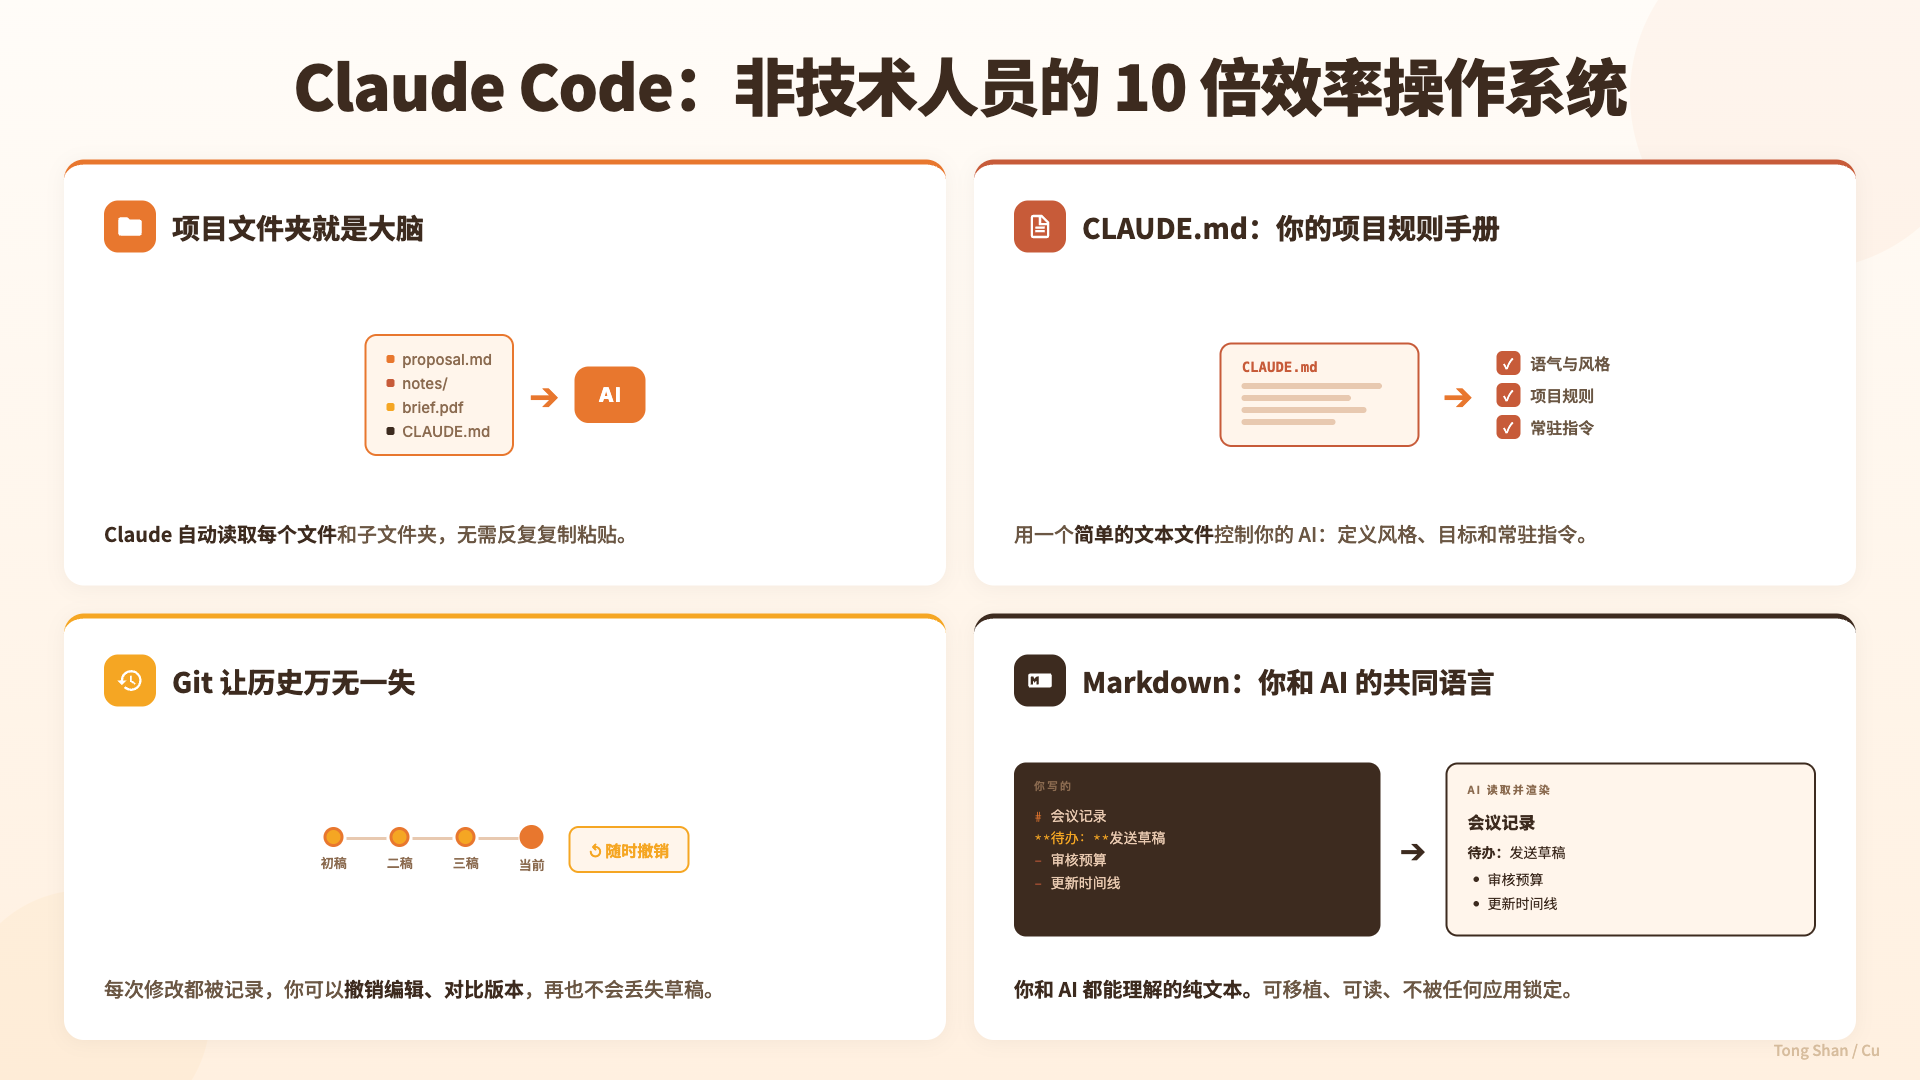
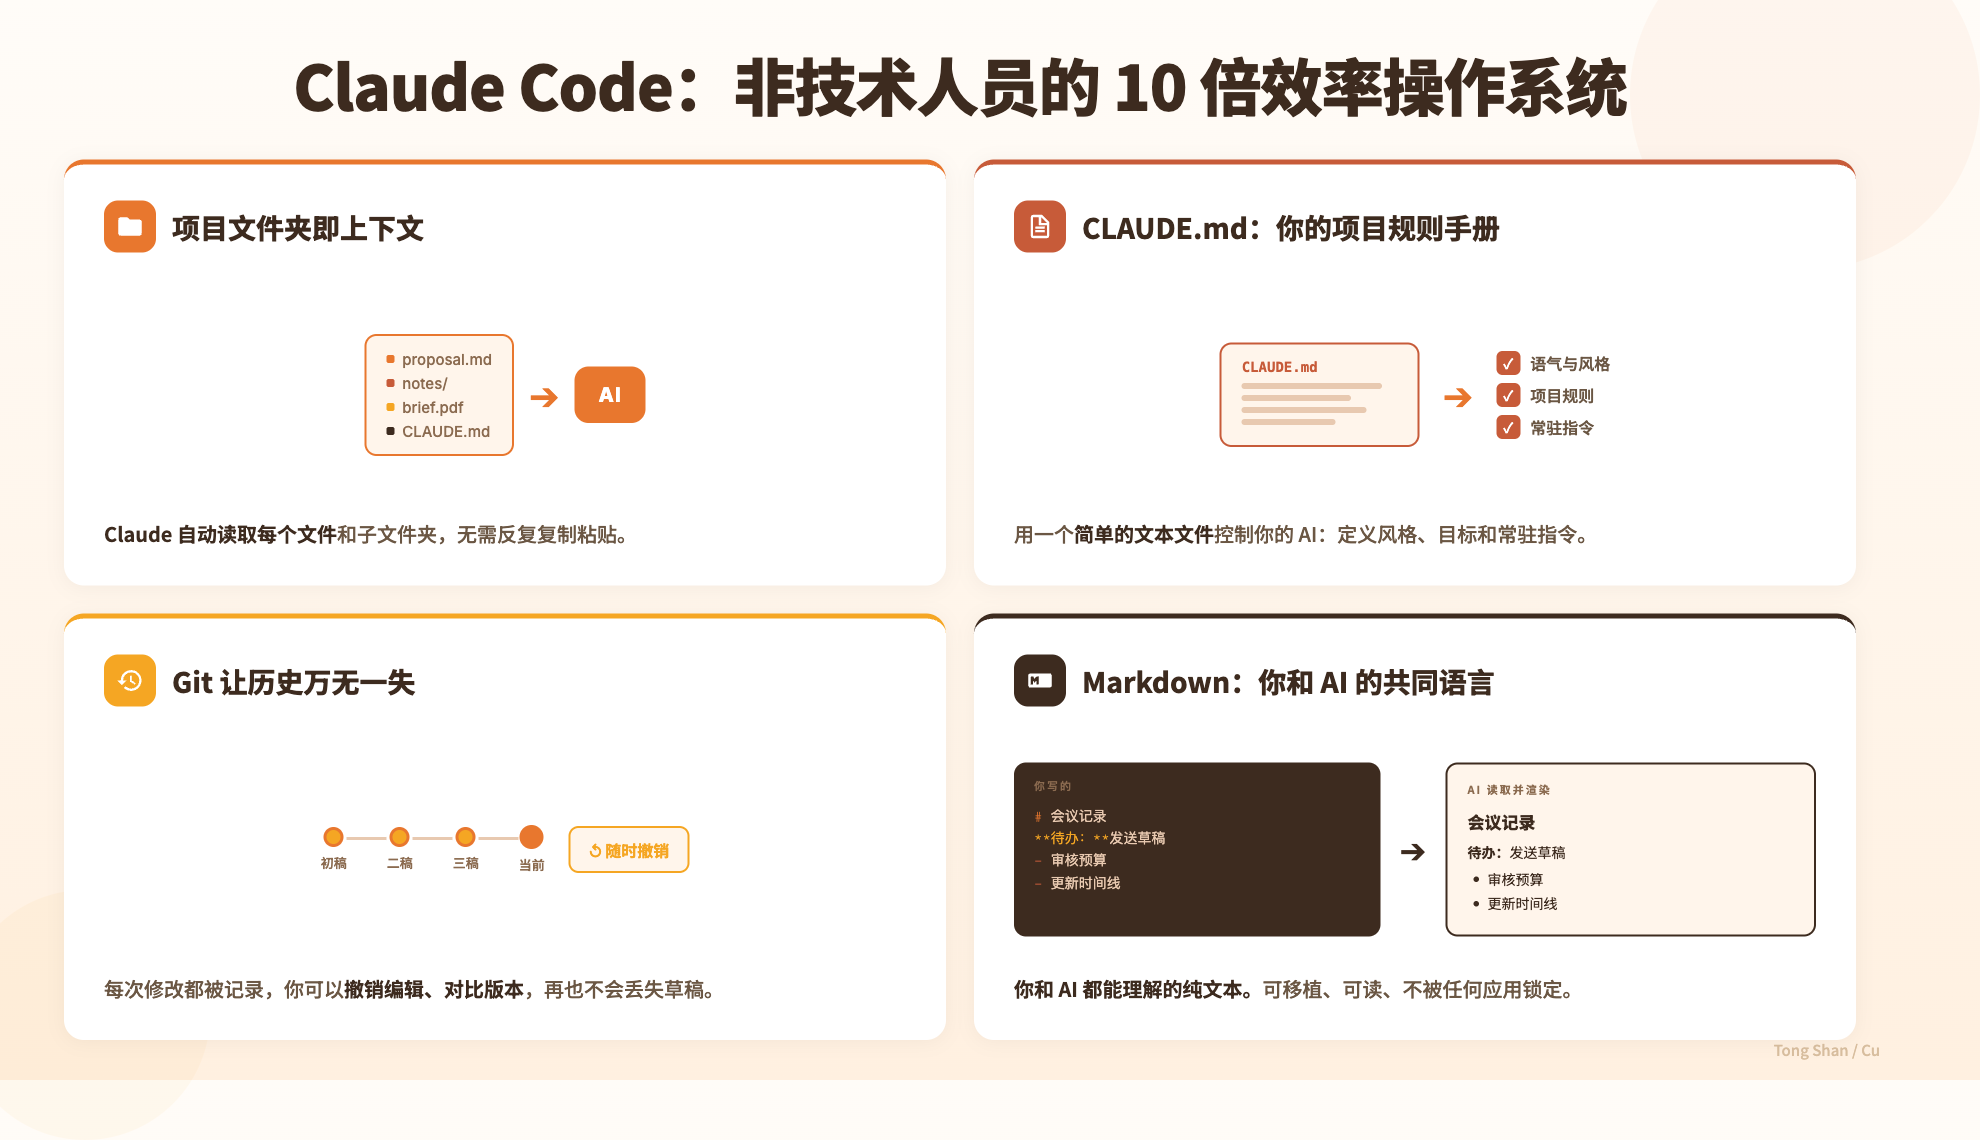
docs: fix infographic card title from "Brain" to "Context" in both languages

diff --git a/cover-image/infographic-en.html b/cover-image/infographic-en.html
@@ -359,7 +359,7 @@
     <div class="card card-1">
       <div class="card-header">
         <div class="card-icon"><svg viewBox="0 0 24 24"><path d="M10 4H4c-1.1 0-2 .9-2 2v12c0 1.1.9 2 2 2h16c1.1 0 2-.9 2-2V8c0-1.1-.9-2-2-2h-8l-2-2z"/></svg></div>
-        <div class="card-title">Your Project Folder Is the Brain</div>
+        <div class="card-title">Your Project Folder Is the Context</div>
       </div>
       <div class="card-visual">
         <div class="folder-viz">

diff --git a/cover-image/infographic-zh.html b/cover-image/infographic-zh.html
@@ -259,7 +259,7 @@
     <div class="card card-1">
       <div class="card-header">
         <div class="card-icon"><svg viewBox="0 0 24 24"><path d="M10 4H4c-1.1 0-2 .9-2 2v12c0 1.1.9 2 2 2h16c1.1 0 2-.9 2-2V8c0-1.1-.9-2-2-2h-8l-2-2z"/></svg></div>
-        <div class="card-title">项目文件夹就是大脑</div>
+        <div class="card-title">项目文件夹即上下文</div>
       </div>
       <div class="card-visual">
         <div class="folder-viz">
